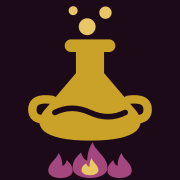
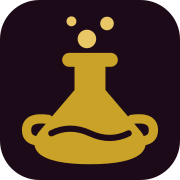
feat(premadelab): la marmite sans flammes, splash à son image en grand à droite (Schub#78)

diff --git a/src/common/design-system/components/PremadeLabMark.tsx b/src/common/design-system/components/PremadeLabMark.tsx
@@ -4,20 +4,13 @@ export interface PremadeLabMarkProps {
   size?: number;
 }
 
-const FLAMME =
-  "M33 50.5 C33.6 53.6 38.2 55.6 38.2 59.6 C38.2 61.9 35.5 63.3 32 63.3 C28.5 63.3 25.8 61.9 25.8 59.6 C25.8 57 27.5 55.5 28.8 54.2 C29.2 55.8 30 56.8 31 57.1 C31.1 54.6 31.6 52.5 33 50.5 Z";
-// Les deux petites flammes : la grande réduite aux 7/10, celle de gauche retournée.
-const FLAMME_GAUCHE =
-  "translate(21.5 63.3) scale(-0.7 0.7) translate(-32 -63.3)";
-const FLAMME_DROITE = "translate(42.5 63.3) scale(0.7) translate(-32 -63.3)";
-
-// La marmite qui est aussi une fiole, trois bulles, sur le feu (Schub#78).
+// La marmite qui est aussi une fiole, trois bulles (Schub#78).
 // Les couleurs suivent les rôles : or sur sombre, prune sur clair.
 export function PremadeLabMark({ size = 28 }: PremadeLabMarkProps) {
   return (
     <Box
       component="svg"
-      viewBox="1 0 62 64"
+      viewBox="6 0 52 52"
       aria-hidden
       sx={{ width: size, height: size, flexShrink: 0, display: "block" }}
     >
@@ -50,17 +43,6 @@ export function PremadeLabMark({ size = 28 }: PremadeLabMarkProps) {
           strokeLinecap="round"
         />
       </Box>
-      <Box component="g" sx={{ color: "secondary.main" }} fill="currentColor">
-        <path d={FLAMME} />
-        <path transform={FLAMME_GAUCHE} d={FLAMME} />
-        <path transform={FLAMME_DROITE} d={FLAMME} />
-      </Box>
-      <Box
-        component="path"
-        sx={{ color: "primary.light" }}
-        fill="currentColor"
-        d="M32.6 56.2 C33 57.8 35 58.8 35 60.5 C35 61.6 33.7 62.3 32 62.3 C30.3 62.3 29 61.6 29 60.5 C29 59.3 29.8 58.6 30.6 58.1 C30.9 58.8 31.3 59.2 31.8 59.3 C31.8 58.2 32 57.1 32.6 56.2 Z"
-      />
     </Box>
   );
 }

diff --git a/src/common/design-system/components/PremadeLabIdentity.stories.tsx b/src/common/design-system/components/PremadeLabIdentity.stories.tsx
@@ -110,7 +110,7 @@ export const Splash: Story = {
               inset: 0,
               backgroundImage: "url(premadelab/splash.svg)",
               backgroundSize: "cover",
-              backgroundPosition: "center bottom",
+              backgroundPosition: "right center",
               opacity: 0.12,
             },
             "[data-mui-color-scheme='light'] &::before": { opacity: 0.07 },

diff --git a/src/common/design-system/components/AppShell.tsx b/src/common/design-system/components/AppShell.tsx
@@ -146,7 +146,7 @@ export function AppShell({
             pointerEvents: "none",
             backgroundImage: `url(${backdropArt})`,
             backgroundSize: "cover",
-            backgroundPosition: "center bottom",
+            backgroundPosition: "right center",
             opacity: 0.12,
             "[data-mui-color-scheme='light'] &": { opacity: 0.07 },
           }}
